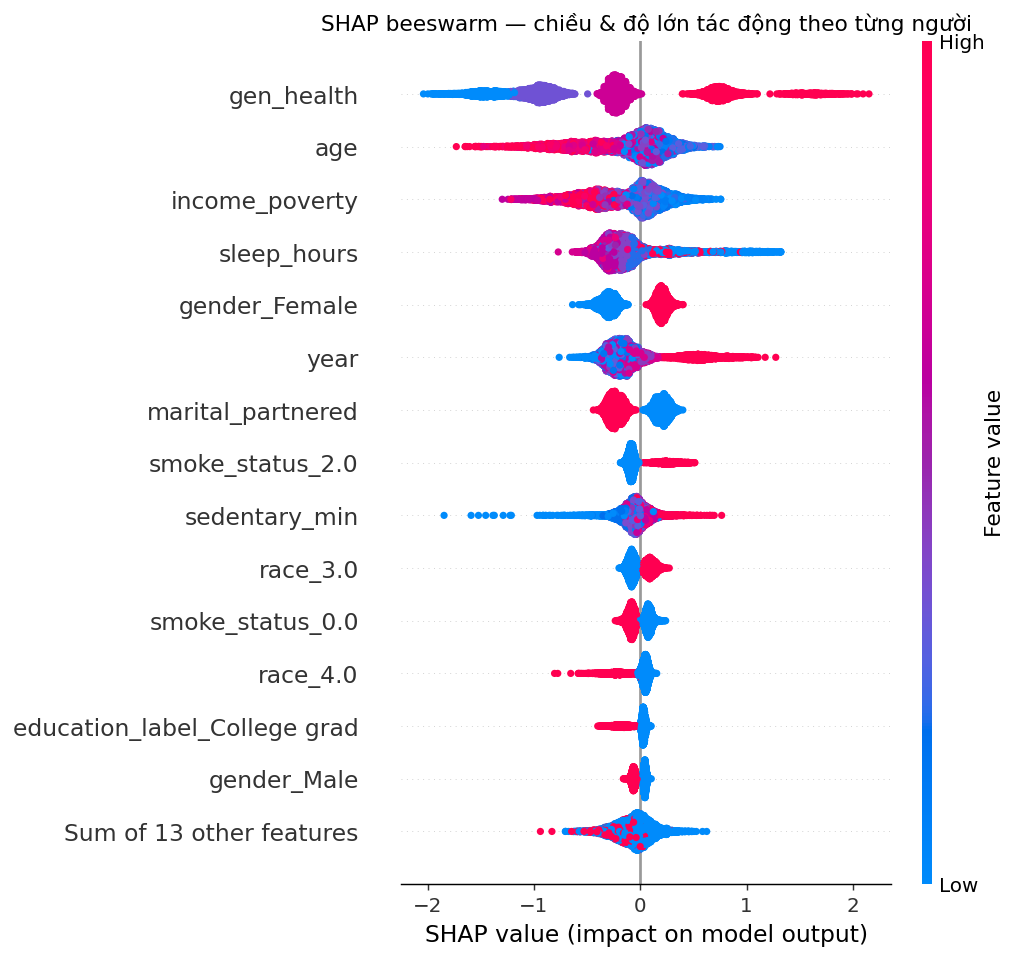
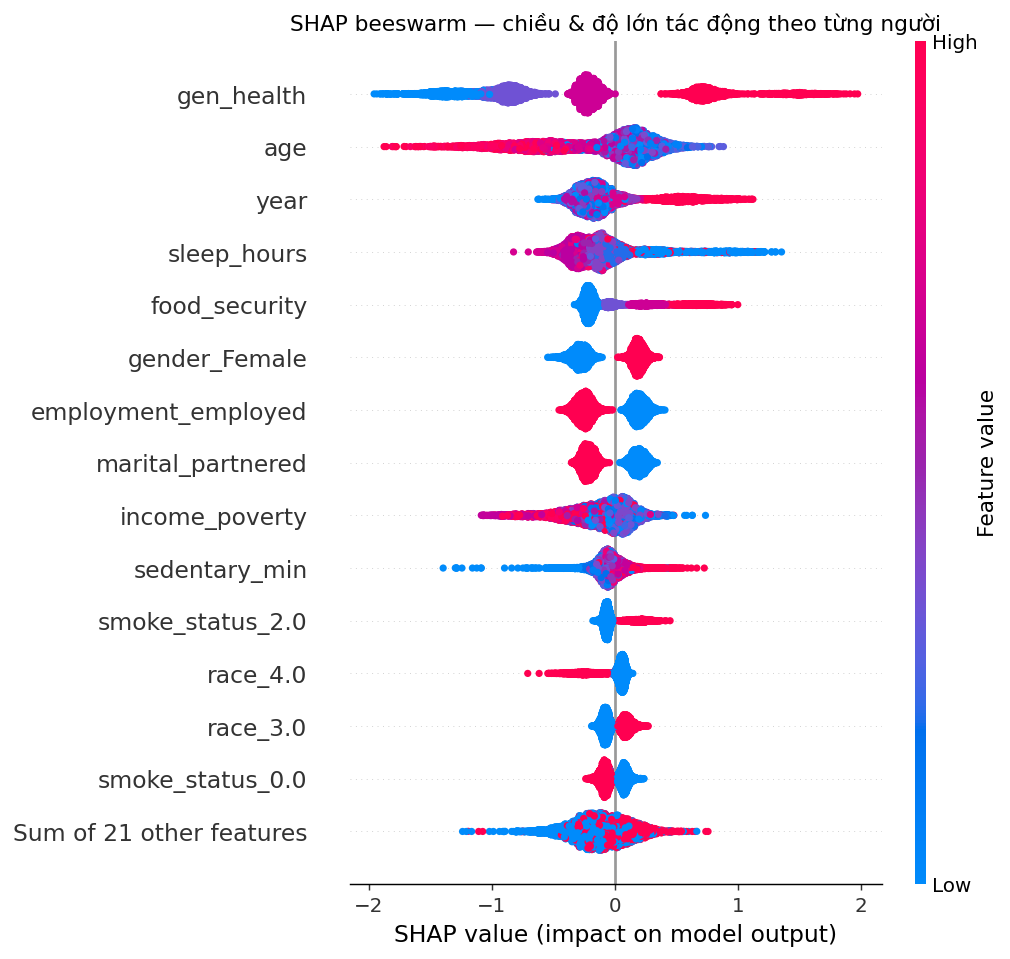
Re-run SHAP on full features: quantify food security/employment/insurance at individual level

diff --git a/scripts/explain_nhanes.py b/scripts/explain_nhanes.py
@@ -75,23 +75,46 @@ def main():
     plt.title("SHAP beeswarm — chiều & độ lớn tác động theo từng người")
     _save("shap_beeswarm.png")
 
-    # yếu tố quan trọng nhất -> dependence plot
-    top = names[int(np.argmax(np.abs(exp.values).mean(0)))]
+    # ---- TIÊU ĐIỂM yếu tố XÃ HỘI: an ninh lương thực / việc làm / bảo hiểm ----
+    mean_abs = np.abs(exp.values).mean(0)
+    rank = {n: r for r, n in enumerate(np.array(names)[np.argsort(mean_abs)[::-1]], 1)}
+    # gom các cột one-hot về 3 yếu tố xã hội
+    groups = {"food_security": ["food_security"],
+              "employment": [n for n in names if n.startswith("employment")],
+              "insured": [n for n in names if n.startswith("insured")]}
+    print("Tầm quan trọng (mean |SHAP|) của yếu tố xã hội:")
+    for g, cols in groups.items():
+        imp = sum(mean_abs[names.index(c)] for c in cols)
+        best_rank = min(rank[c] for c in cols)
+        print(f"  {g:<14} |SHAP|={imp:.4f}  (hạng cao nhất {best_rank}/{len(names)})")
+
+    # dependence cho an ninh lương thực (1=Full ... 4=Very low)
+    shap.plots.scatter(exp[:, "food_security"], show=False)
+    plt.title("SHAP dependence — an ninh lương thực (1=đủ ăn → 4=rất thiếu)")
+    _save("shap_dependence_food.png")
+    # dependence cho yếu tố mạnh nhất tổng thể
+    top = names[int(np.argmax(mean_abs))]
     shap.plots.scatter(exp[:, top], show=False)
     plt.title(f"SHAP dependence — {top}")
     _save("shap_dependence.png")
 
-    # ---- cục bộ: 2 ca bị gắn cờ rủi ro cao nhất ----
+    # ---- cục bộ: chọn ca rủi ro cao & THIẾU ĐÓI để thấy yếu tố xã hội đẩy dự đoán ----
     proba = model.predict_proba(df_te)[:, 1]
     order = np.argsort(proba)[::-1]
+    food = Xte["food_security"].values
+    sc = lambda i, cols: sum(exp.values[i, names.index(c)] for c in cols)  # SHAP gộp nhóm
     feat_cols = nm.NUMERIC + nm.CATEGORICAL
-    for k, idx in enumerate(order[:2], 1):
+    insecure = [i for i in order if food[i] in (3, 4)][:2]
+    for k, idx in enumerate(insecure, 1):
         row = Xte.iloc[idx]
-        print(f"Ca rủi ro cao #{k}: xác suất={proba[idx]:.2f} | "
+        print(f"\nCa rủi ro cao + thiếu đói #{k}: P={proba[idx]:.2f} | "
               + ", ".join(f"{c}={row[c]}" for c in feat_cols if pd.notna(row[c])))
+        print(f"   SHAP xã hội: lương_thực={sc(idx, groups['food_security']):+.2f}  "
+              f"việc_làm={sc(idx, groups['employment']):+.2f}  "
+              f"bảo_hiểm={sc(idx, groups['insured']):+.2f}")
         shap.plots.waterfall(exp[idx], max_display=12, show=False)
-        plt.title(f"Vì sao gắn cờ — ca #{k} (P={proba[idx]:.2f})")
-        _save(f"shap_case_high{k}.png")
+        plt.title(f"Vì sao gắn cờ — ca thiếu đói #{k} (P={proba[idx]:.2f})")
+        _save(f"shap_case_food{k}.png")
 
 
 if __name__ == "__main__":

diff --git a/README.md b/README.md
@@ -201,11 +201,14 @@ Tách **train 60% / valid 20% / test 20%** (chống rò rỉ): tinh chỉnh siê
 Dùng `TreeExplainer` (XGBoost) để mở "hộp đen" — biết **vì sao** mô hình gắn cờ một người:
 
 - **Toàn cục** (`shap_bar.png`, `shap_beeswarm.png`): sức khỏe tự đánh giá, giấc ngủ,
-  thu nhập, tuổi, hút thuốc là các yếu tố đẩy dự đoán nhiều nhất — khớp với hồi quy OR.
-- **Cục bộ** (`shap_case_high*.png`): waterfall cho từng cá nhân. Ví dụ một ca P=0.98
-  được gắn cờ chủ yếu do **sức khỏe kém (+1.35)**, **ngủ ~2h (+0.78)**, thu nhập thấp,
-  hút thuốc — mỗi quyết định đều truy vết được, tăng độ tin cậy & tính minh bạch.
-- **Dependence** (`shap_dependence.png`): tác động của yếu tố mạnh nhất biến thiên theo giá trị.
+  **việc làm**, **an ninh lương thực**, thu nhập là các yếu tố đẩy dự đoán nhiều nhất.
+  Trong nhóm xã hội: việc làm (|SHAP| 0.31, hạng 7/35) & an ninh lương thực (0.24, hạng 5)
+  mạnh; bảo hiểm yếu (hạng 25).
+- **Cục bộ** (`shap_case_food*.png`): waterfall từng cá nhân. Ví dụ ca P=0.98 (thiếu đói)
+  được gắn cờ do **sức khỏe kém (+1.25)**, **ngủ ~4h (+0.93)**, **an ninh lương thực thiếu (+0.51)**,
+  **thất nghiệp (+0.22)** — yếu tố xã hội đẩy rủi ro rõ rệt ở mức cá nhân.
+- **Dependence** (`shap_dependence.png`, `shap_dependence_food.png`): tác động biến thiên
+  theo giá trị (vd an ninh lương thực càng thiếu → đẩy nguy cơ càng cao).
 
 → Mô hình không dựa vào tín hiệu giả; lý do gắn cờ là các yếu tố nguy cơ có ý nghĩa lâm sàng.
 
